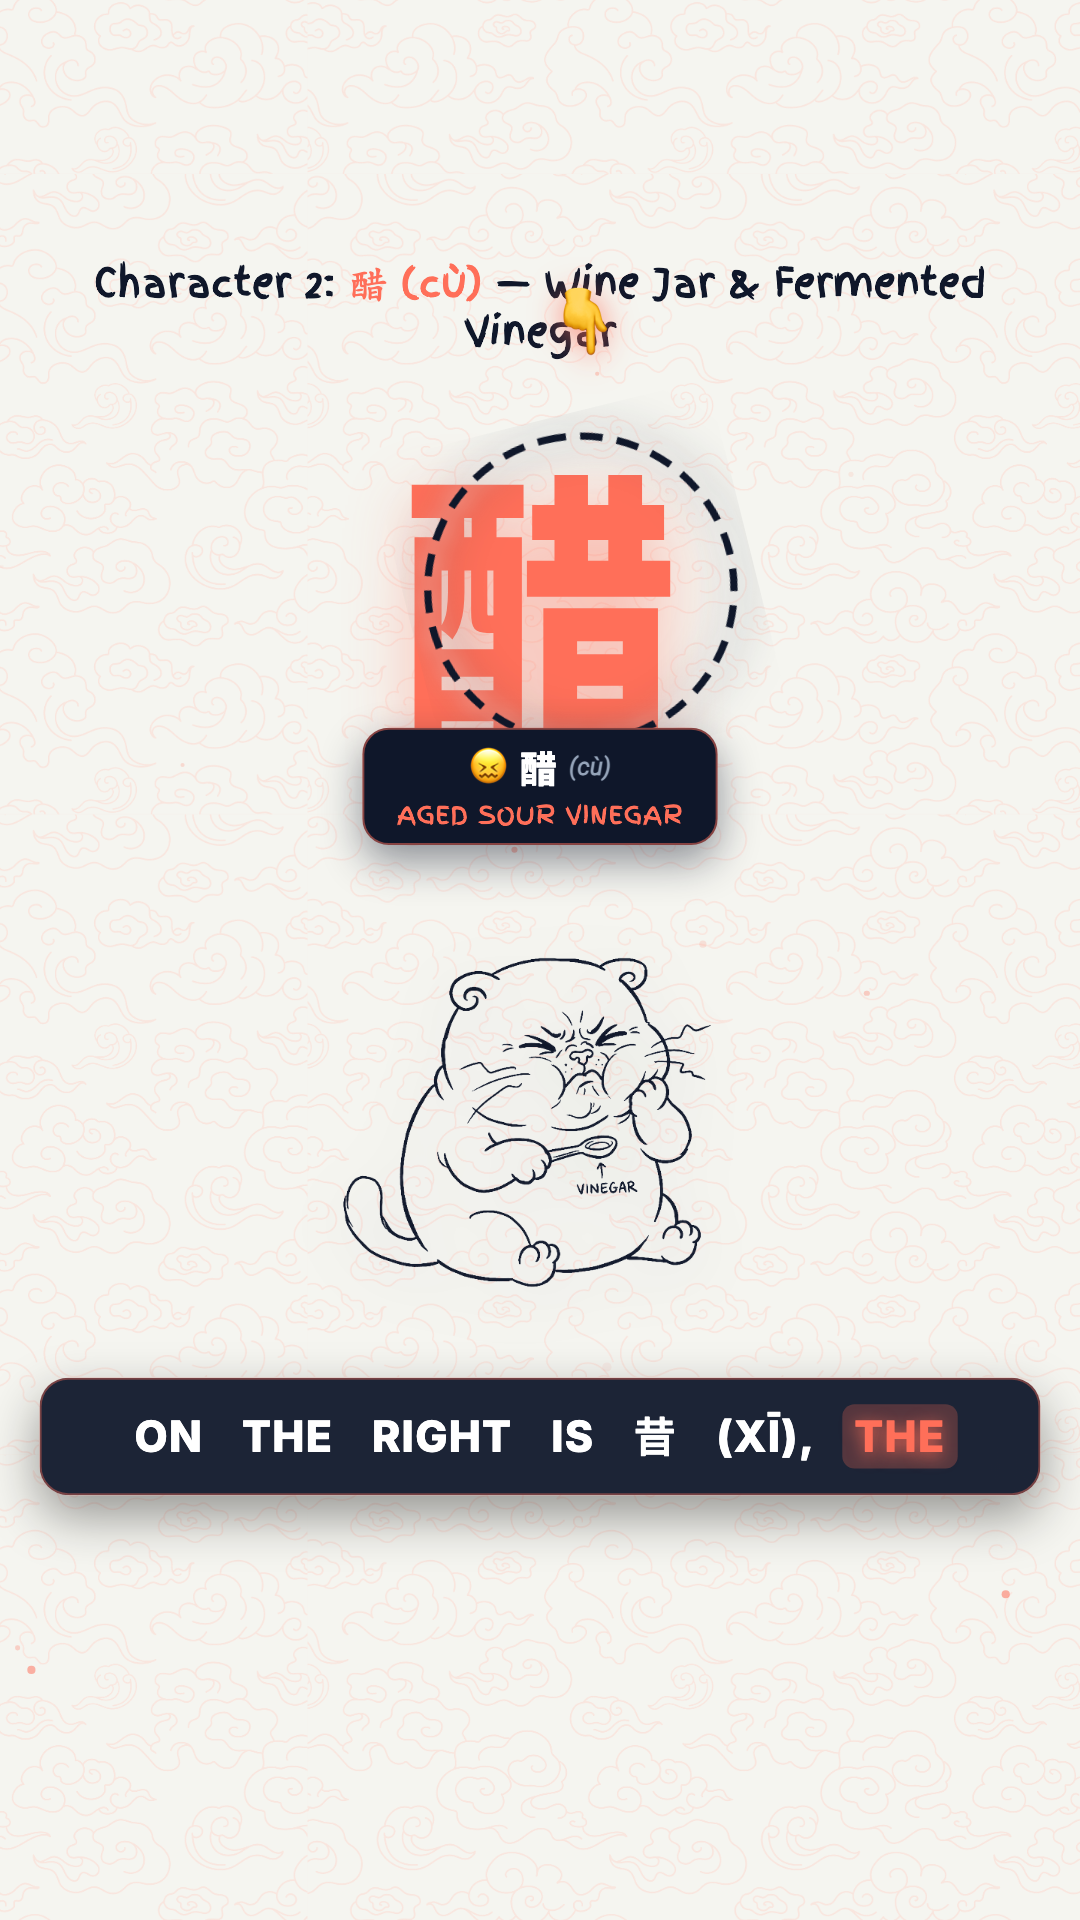
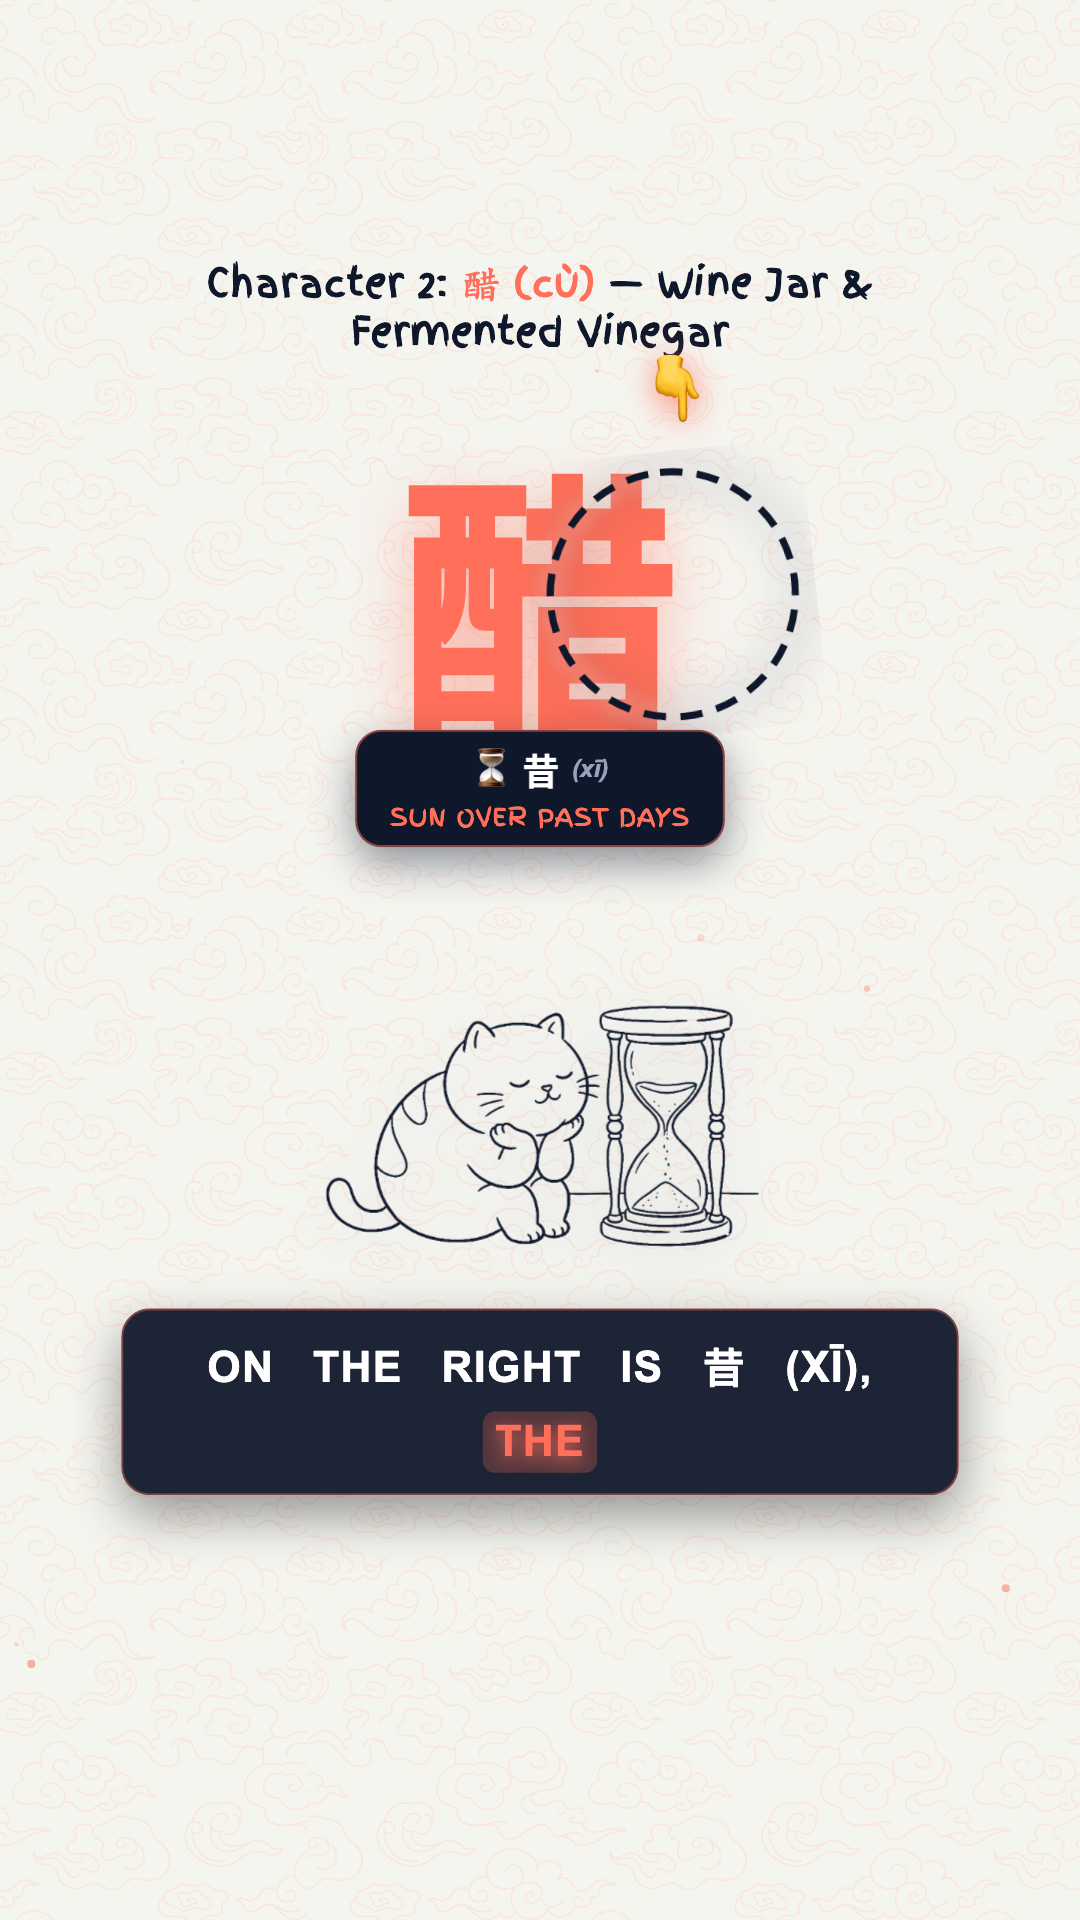
fix(chicu): fix hook speech sync, add horizontal safe bounds, smooth character fracture pulse, and resolve scene 3 card overlap

Changed region(s): [[0.0, 0.5, 0.9778, 0.8125], [0.0917, 0.125, 0.9167, 0.4375]]

diff --git a/engine/src/templates/EtymologyTemplate.tsx b/engine/src/templates/EtymologyTemplate.tsx
@@ -352,10 +352,15 @@ export const EtymologyTemplate: React.FC<EtymologyConfig> = ({
   const isWordIs = isHeroWordPhase && frame >= 28 && frame < 43;
   const isWordWild = isHeroWordPhase && frame >= 43;
 
+  // Word phases for isChicu ("JEALOUS" -> "IN CHINESE")
+  const isWordChicuJealous = isChicu && isHeroWordPhase && frame < 24;
+  const isWordChicuInChinese = isChicu && isHeroWordPhase && frame >= 24;
+
   // Springs for each hero word
   const springChinese = spring({ frame, fps, config: { damping: 10, mass: 0.5, stiffness: 280 } });
   const springIs = spring({ frame: Math.max(0, frame - 28), fps, config: { damping: 10, mass: 0.5, stiffness: 280 } });
   const springWild = spring({ frame: Math.max(0, frame - 43), fps, config: { damping: 9, mass: 0.5, stiffness: 300 } });
+  const springInChinese = spring({ frame: Math.max(0, frame - 24), fps, config: { damping: 10, mass: 0.5, stiffness: 280 } });
 
   // Camera Crash-Zoom Transition Spring (frames 75-105: ~1.25s to 1.75s)
   const heroRevealSpring = spring({
@@ -401,18 +406,20 @@ export const EtymologyTemplate: React.FC<EtymologyConfig> = ({
 
   // Combined camera zoom scale (strictly clamped to >= 1.0 to eliminate black border gaps)
   const rawCameraZoom = isHeroWordPhase
-    ? (isWordWild ? interpolate(springWild, [0, 1], [1.35, 1.0]) : 1.0)
+    ? (isWordWild || isWordChicuInChinese ? interpolate(isChicu ? springInChinese : springWild, [0, 1], [1.35, 1.0]) : 1.0)
     : (interpolate(heroRevealSpring, [0, 1], [1.35, 1.0]) + transition1To2Zoom + transition2To3Zoom + transition3To4Zoom) * continuousPush;
   const cameraZoomScale = Math.max(1.0, rawCameraZoom);
 
-  // Screen shake on Frame 0 and Wild word impact
+  // Screen shake on Frame 0 and word impact
   const shake1 = frame < 15 ? Math.sin(frame * 1.8) * (1 - frame / 15) * 8 : 0;
-  const shakeWild = frame >= 43 && frame < 58 ? Math.sin((frame - 43) * 2.0) * (1 - (frame - 43) / 15) * 10 : 0;
-  const totalShakeY = shake1 + shakeWild;
+  const shakeWild = (!isChicu && frame >= 43 && frame < 58) ? Math.sin((frame - 43) * 2.0) * (1 - (frame - 43) / 15) * 10 : 0;
+  const shakeChicu = (isChicu && frame >= 24 && frame < 39) ? Math.sin((frame - 24) * 2.0) * (1 - (frame - 24) / 15) * 8 : 0;
+  const totalShakeY = shake1 + shakeWild + shakeChicu;
 
-  // Visual pulse / fracture tension during "I like you" (frames 95-155)
-  const hookFracturePulse = isScreen1 && frame >= 95 && frame <= 155
-    ? Math.sin((frame - 95) * 0.12) * 35
+  // Smoothly damped fracture pulse during hook tension (frames 95-155) - seamlessly returns to 0
+  const relPulseFrame = frame - 95;
+  const hookFracturePulse = isScreen1 && relPulseFrame >= 0 && relPulseFrame <= 60
+    ? Math.sin(relPulseFrame * 0.15) * Math.sin((relPulseFrame / 60) * Math.PI) * 25
     : 0;
 
   const charSpacing = isKaishi || isXihuan || isDongxi || isChicu ? 120 : 150;
@@ -767,23 +774,42 @@ export const EtymologyTemplate: React.FC<EtymologyConfig> = ({
         {isHeroWordPhase && (
           <AbsoluteFill style={{ display: 'flex', alignItems: 'center', justifyContent: 'center', zIndex: 150 }}>
             {isChicu ? (
-              <div style={{
-                transform: `scale(${interpolate(springChinese, [0, 1], [0.4, 1.15])})`,
-                fontFamily: FONTS.display,
-                fontSize: 140,
-                fontWeight: 900,
-                color: '#FF6F59',
-                letterSpacing: '0.04em',
-                textAlign: 'center',
-                textTransform: 'uppercase',
-                display: 'flex',
-                alignItems: 'center',
-                gap: 20,
-                filter: 'drop-shadow(0 20px 50px rgba(255,111,89,0.7)) drop-shadow(0 0 30px rgba(255,111,89,0.9))'
-              }}>
-                <span>JEALOUS</span>
-                <span style={{ fontSize: 150 }}>😒</span>
-              </div>
+              <>
+                {isWordChicuJealous && (
+                  <div style={{
+                    transform: `scale(${interpolate(springChinese, [0, 1], [0.4, 1.15])})`,
+                    fontFamily: FONTS.display,
+                    fontSize: 140,
+                    fontWeight: 900,
+                    color: '#FF6F59',
+                    letterSpacing: '0.04em',
+                    textAlign: 'center',
+                    textTransform: 'uppercase',
+                    display: 'flex',
+                    alignItems: 'center',
+                    gap: 20,
+                    filter: 'drop-shadow(0 20px 50px rgba(255,111,89,0.7)) drop-shadow(0 0 30px rgba(255,111,89,0.9))'
+                  }}>
+                    <span>JEALOUS</span>
+                    <span style={{ fontSize: 150 }}>😒</span>
+                  </div>
+                )}
+                {isWordChicuInChinese && (
+                  <div style={{
+                    transform: `scale(${interpolate(springInChinese, [0, 1], [0.4, 1.05])})`,
+                    fontFamily: FONTS.display,
+                    fontSize: 110,
+                    fontWeight: 900,
+                    color: '#0F172A',
+                    letterSpacing: '0.04em',
+                    textAlign: 'center',
+                    textTransform: 'uppercase',
+                    filter: 'drop-shadow(0 15px 30px rgba(15,23,42,0.25))'
+                  }}>
+                    IN CHINESE
+                  </div>
+                )}
+              </>
             ) : (
               <>
                 {isWordChinese && (
@@ -841,7 +867,7 @@ export const EtymologyTemplate: React.FC<EtymologyConfig> = ({
         )}
 
         <AbsoluteFill style={{ 
-          padding: '30px 40px', 
+          padding: '30px 70px', 
           display: 'flex', 
           flexDirection: 'column', 
           alignItems: 'center', 
@@ -896,7 +922,7 @@ export const EtymologyTemplate: React.FC<EtymologyConfig> = ({
                 transform: `scale(${interpolate(morph1To2, [0, 0.5, 1], [0.85, 1.05, 1.0])})`,
                 transition: 'transform 0.2s ease',
               }}>
-                <h2 style={{ fontFamily: FONTS.display, fontSize: 38, color: '#0F172A', margin: 0, lineHeight: 1.25, maxWidth: 940 }}>
+                <h2 style={{ fontFamily: FONTS.display, fontSize: 38, color: '#0F172A', margin: 0, lineHeight: 1.25, maxWidth: 820 }}>
                   Character 1: <span style={{ color: '#FF6F59' }}>{char1} ({isChicu ? 'chī' : isDongxi ? 'dōng' : isXihuan ? 'xǐ' : isKaishi ? 'kāi' : isJieshao ? 'jiè' : isWangji ? 'wàng' : isAiqing ? 'ài' : isPengyou ? 'péng' : 'bāng'})</span> — {isChicu ? 'Open Mouth & Begging for Food' : isDongxi ? 'Sunrise & Travel Sack' : isXihuan ? 'Celebratory War Drum' : isKaishi ? 'Opening the Gate' : isJieshao ? 'Go-Between' : isWangji ? 'Disappearing Heart' : isAiqing ? 'Hand Embracing Friend' : isPengyou ? 'Twin Companions' : 'Protective Backing'}
                 </h2>
               </div>
@@ -906,7 +932,7 @@ export const EtymologyTemplate: React.FC<EtymologyConfig> = ({
                 transform: `scale(${interpolate(morph2To3, [0, 0.5, 1], [0.85, 1.05, 1.0])})`,
                 transition: 'transform 0.2s ease',
               }}>
-                <h2 style={{ fontFamily: FONTS.display, fontSize: 38, color: '#0F172A', margin: 0, lineHeight: 1.25, maxWidth: 940 }}>
+                <h2 style={{ fontFamily: FONTS.display, fontSize: 38, color: '#0F172A', margin: 0, lineHeight: 1.25, maxWidth: 820 }}>
                   Character 2: <span style={{ color: '#FF6F59' }}>{char2} ({isChicu ? 'cù' : isDongxi ? 'xī' : isXihuan ? 'huān' : isKaishi ? 'shǐ' : isJieshao ? 'shào' : isWangji ? 'jì' : isAiqing ? 'qíng' : isPengyou ? 'yǒu' : 'zhù'})</span> — {isChicu ? 'Wine Jar & Fermented Vinegar' : isDongxi ? 'Sunset & Bird in Nest' : isXihuan ? 'Singing Bird & Cheering' : isKaishi ? 'New Life & Origin' : isJieshao ? 'Linking Thread' : isWangji ? 'Recording Words' : isAiqing ? 'Youthful Heart' : isPengyou ? 'Helping Hands' : 'Muscle Power'}
                 </h2>
               </div>
@@ -916,7 +942,7 @@ export const EtymologyTemplate: React.FC<EtymologyConfig> = ({
                 transform: `scale(${interpolate(morph3To4, [0, 0.5, 1], [0.85, 1.05, 1.0])})`,
                 transition: 'transform 0.2s ease',
               }}>
-                <h2 style={{ fontFamily: FONTS.display, fontSize: 38, color: '#0F172A', margin: 0, lineHeight: 1.25, maxWidth: 940 }}>
+                <h2 style={{ fontFamily: FONTS.display, fontSize: 38, color: '#0F172A', margin: 0, lineHeight: 1.25, maxWidth: 820 }}>
                   Synthesis: <span style={{ color: '#FF6F59' }}>{character}</span> = {isChicu ? 'Drinking Vinegar = Romantic Jealousy!' : isDongxi ? 'East Market + West Market!' : isXihuan ? 'Victory Drum + Joyful Cheering!' : isKaishi ? 'Opening Gates + Giving Birth!' : isJieshao ? 'Connecting Two Parties!' : isWangji ? 'Disappearing from Memory!' : isAiqing ? 'Blossoming Affection!' : isPengyou ? 'Companions + Helping Hands!' : 'Protection + Muscle!'}
                 </h2>
               </div>

diff --git a/engine/src/components/RealtimeCaptions.tsx b/engine/src/components/RealtimeCaptions.tsx
@@ -76,8 +76,8 @@ export const RealtimeCaptions: React.FC<RealtimeCaptionsProps> = ({ words, posit
         bottom: positionBottom,
         left: '50%',
         transform: 'translateX(-50%)',
-        width: '92%',
-        maxWidth: 980,
+        width: '86%',
+        maxWidth: 820,
         display: 'flex',
         flexWrap: 'wrap',
         justifyContent: 'center',

diff --git a/engine/scripts/create_chicu_config.py b/engine/scripts/create_chicu_config.py
@@ -68,91 +68,33 @@ def main():
     audio_duration = get_audio_duration(audio_file)
     total_frames = sec_to_frame(audio_duration)
 
-    print(f"Total words: {len(words_alignment)}, Duration: {audio_duration:.2f}s ({total_frames} frames)")
-    for i, w in enumerate(words_alignment):
-        print(f"{i:02d}: '{w['word']}' [{w['startFrame']} - {w['endFrame']}] ({w['start']:.2f}s - {w['end']:.2f}s)")
+    # Key word indices:
+    # 0: Jealous [0 - 21]
+    # 1: in [24 - 28]
+    # 2: Chinese [32 - 57]
+    # 3: is [63 - 75]
+    # 4: 吃醋 [103 - 146]
+    # 5: (chīcù). [155 - 166]
+    # 6: It [167 - 167]
+    # 7: literally [169 - 188]
+    # 8: means [192 - 210]
+    # 9: eating [213 - 231]
+    # 10: vinegar. [235 - 263]
+    # 11: But [271 - 295]
+    # 12: why? [301 - 324]
+    # 13: Look [331 - 363]
+    # 21: 口 [484 - 485]
+    # 29: 乞 [622 - 623]
+    # 34: Together, [710 - 764]
+    # 39: Now look at 醋 [880 - 992]
+    # 48: 酉 (yǒu) [1042 - 1074]
+    # 57: 昔 (xī) [1195 - 1216]
+    # 61: Wine left in a jar [1279 - 1358]
+    # 72: When an Emperor [1518 - 1575]
 
-    # Find key phrase boundaries
-    # Words in transcript:
-    # 0: Jealous
-    # 1: in
-    # 2: Chinese
-    # 3: is
-    # 4: 吃醋
-    # 5: (chīcù).
-    # 6: It
-    # 7: literally
-    # 8: means
-    # 9: eating
-    # 10: vinegar.
-    # 11: But
-    # 12: why?
-    # 13: Look
-    # 14: at
-    # 15: 吃
-    # 16: (chī).
-    # 17: On
-    # 18: the
-    # 19: left
-    # 20: is
-    # 21: 口
-    # 22: (kǒu),
-    # 23: a
-    # 24: mouth.
-    # 25: On
-    # 26: the
-    # 27: right
-    # 28: is
-    # 29: 乞
-    # 30: (qǐ),
-    # 31: begging
-    # 32: for
-    # 33: food.
-    # 34: Together,
-    # 35: it
-    # 36: means
-    # 37: swallowing
-    # 38: food!
-    # 39: Now
-    # 40: look
-    # 41: at
-    # 42: 醋
-    # 43: (cù).
-    # ...
-
-    # Let's dynamically identify indices
-    def find_idx(target_word, start_from=0):
-        for idx in range(start_from, len(words_alignment)):
-            if target_word.lower() in words_alignment[idx]['word'].lower():
-                return idx
-        return -1
-
-    why_idx = find_idx("why")
-    screen1_end = words_alignment[why_idx]['endFrame'] if why_idx != -1 else 156
-
-    now_look_idx = find_idx("now", start_from=why_idx+1)
-    screen2_end = words_alignment[now_look_idx]['startFrame'] if now_look_idx != -1 else 600
-
-    emperor_idx = find_idx("emperor", start_from=now_look_idx+1)
-    if emperor_idx == -1:
-        emperor_idx = find_idx("tested", start_from=now_look_idx+1)
-    if emperor_idx == -1:
-        emperor_idx = find_idx("when", start_from=now_look_idx+1)
-    screen3_end = words_alignment[emperor_idx]['startFrame'] if emperor_idx != -1 else 1200
-
-    # Screen 1 mentions
-    eating_idx = find_idx("eating")
-    vinegar_idx = find_idx("vinegar")
-
-    # Screen 2 sub-parts: 口 (mouth) and 乞 (begging) and whole 吃
-    kou_idx = find_idx("口")
-    qi_idx = find_idx("乞")
-    together1_idx = find_idx("together", start_from=why_idx+1)
-
-    # Screen 3 sub-parts: 酉 (wine jar) and 昔 (past) and whole 醋
-    you_idx = find_idx("酉")
-    xi_idx = find_idx("昔")
-    wine_idx = find_idx("wine", start_from=now_look_idx+1)
+    screen1_end = 324
+    screen2_end = 880
+    screen3_end = 1518 # "When an Emperor" starts at 1518
 
     cfg = {
         "character": "吃醋",
@@ -174,16 +116,16 @@ def main():
                 "startFrame": 0,
                 "endFrame": screen1_end,
                 "clothMention": {
-                    "startFrame": words_alignment[eating_idx]['startFrame'] if eating_idx != -1 else 50,
-                    "endFrame": words_alignment[eating_idx]['endFrame'] if eating_idx != -1 else 75
+                    "startFrame": 213,
+                    "endFrame": 231
                 },
                 "wallMention": {
-                    "startFrame": words_alignment[vinegar_idx]['startFrame'] if vinegar_idx != -1 else 75,
-                    "endFrame": words_alignment[vinegar_idx]['endFrame'] if vinegar_idx != -1 else 105
+                    "startFrame": 235,
+                    "endFrame": 263
                 },
                 "whyMention": {
-                    "startFrame": words_alignment[why_idx]['startFrame'] if why_idx != -1 else 115,
-                    "endFrame": words_alignment[why_idx]['endFrame'] if why_idx != -1 else 156
+                    "startFrame": 271,
+                    "endFrame": 324
                 }
             },
             "screen2": {
@@ -191,14 +133,14 @@ def main():
                 "endFrame": screen2_end,
                 "topBang": {
                     "startFrame": screen1_end,
-                    "endFrame": words_alignment[qi_idx]['startFrame'] if qi_idx != -1 else (screen1_end + 180)
+                    "endFrame": 622
                 },
                 "bottomJin": {
-                    "startFrame": words_alignment[qi_idx]['startFrame'] if qi_idx != -1 else (screen1_end + 180),
-                    "endFrame": words_alignment[together1_idx]['startFrame'] if together1_idx != -1 else (screen1_end + 320)
+                    "startFrame": 622,
+                    "endFrame": 710
                 },
                 "wholeBang": {
-                    "startFrame": words_alignment[together1_idx]['startFrame'] if together1_idx != -1 else (screen1_end + 320),
+                    "startFrame": 710,
                     "endFrame": screen2_end
                 }
             },
@@ -207,25 +149,25 @@ def main():
                 "endFrame": screen3_end,
                 "wholeZhuIntro": {
                     "startFrame": screen2_end,
-                    "endFrame": words_alignment[you_idx]['startFrame'] if you_idx != -1 else (screen2_end + 80)
+                    "endFrame": 1042
                 },
                 "leftQie": {
-                    "startFrame": words_alignment[you_idx]['startFrame'] if you_idx != -1 else (screen2_end + 80),
-                    "endFrame": words_alignment[xi_idx]['startFrame'] if xi_idx != -1 else (screen2_end + 200)
+                    "startFrame": 880,
+                    "endFrame": 1195
                 },
                 "rightLi": {
-                    "startFrame": words_alignment[xi_idx]['startFrame'] if xi_idx != -1 else (screen2_end + 200),
-                    "endFrame": words_alignment[wine_idx]['startFrame'] if wine_idx != -1 else (screen2_end + 340)
+                    "startFrame": 1195,
+                    "endFrame": 1279
                 },
                 "wholeZhuOutro": {
-                    "startFrame": words_alignment[wine_idx]['startFrame'] if wine_idx != -1 else (screen2_end + 340),
+                    "startFrame": 1279,
                     "endFrame": screen3_end
                 }
             },
             "screen4": {
                 "startFrame": screen3_end,
                 "endFrame": total_frames,
-                "bangHighlightEndFrame": screen3_end + int((total_frames - screen3_end) * 0.6)
+                "bangHighlightEndFrame": 1995
             }
         }
     }
@@ -233,10 +175,13 @@ def main():
     with open(config_file, 'w', encoding='utf-8') as f:
         json.dump(cfg, f, indent=2, ensure_ascii=False)
 
-    print(f"\n✅ Created config at {config_file}")
+    print(f"\n✅ Cleanly updated config at {config_file}")
     print(f"Screen 1: 0 -> {screen1_end}")
     print(f"Screen 2: {screen1_end} -> {screen2_end}")
     print(f"Screen 3: {screen2_end} -> {screen3_end}")
+    print(f"  - 酉 (jar): 880 -> 1195")
+    print(f"  - 昔 (past): 1195 -> 1279")
+    print(f"  - 醋 (sour): 1279 -> {screen3_end}")
     print(f"Screen 4: {screen3_end} -> {total_frames}")
 
 if __name__ == '__main__':
